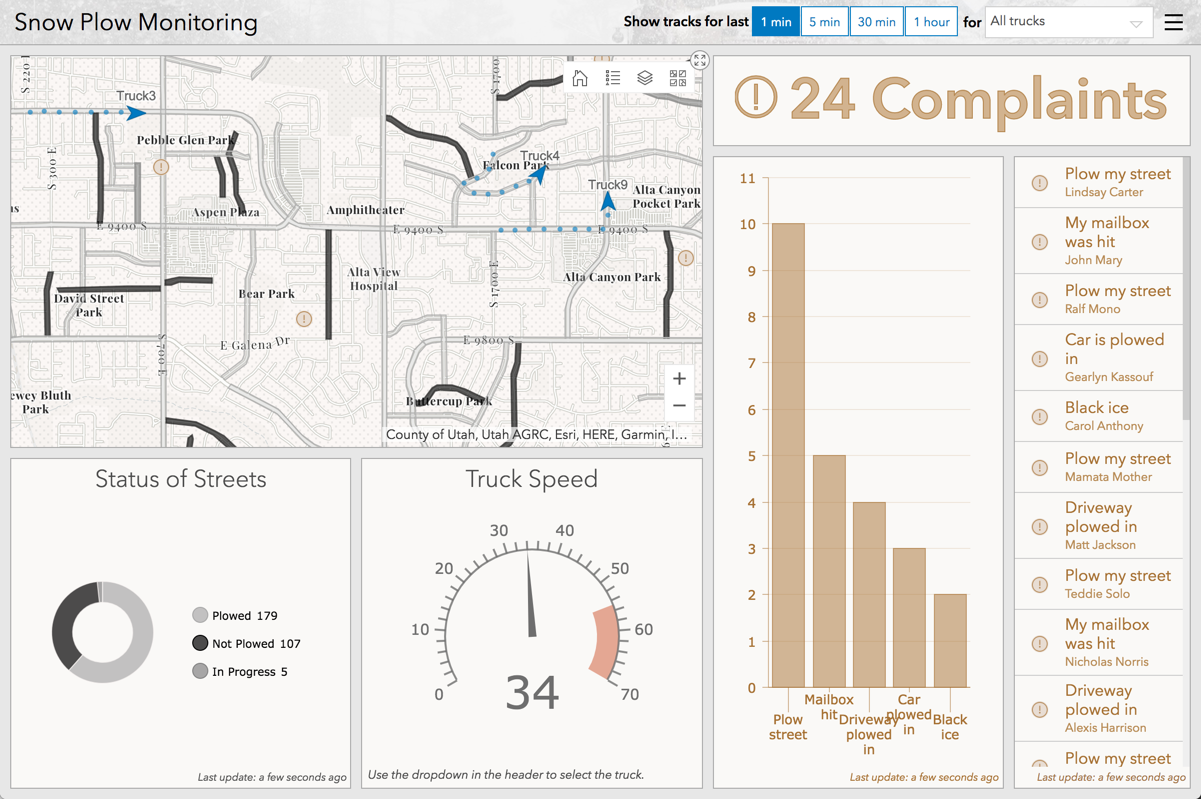
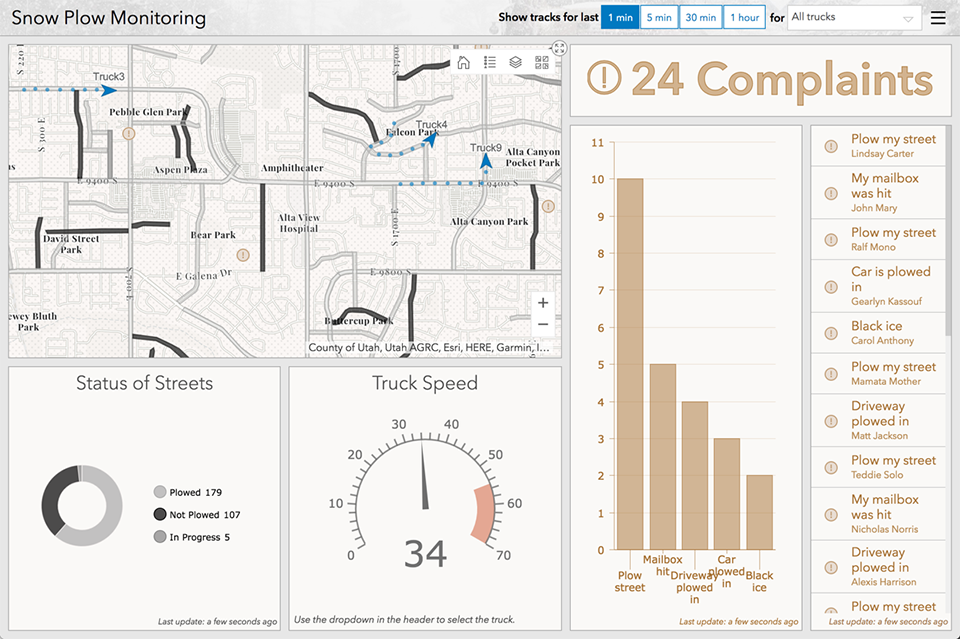
updated image sizes

diff --git a/projects/dashboard/index.html b/projects/dashboard/index.html
@@ -91,7 +91,7 @@
             </div>
 
             <div class="capture">
-                <img src="projects/dashboard/images/image_15.png">
+                <img src="projects/dashboard/images/image_15.jpg">
             </div>
 
             </div>
